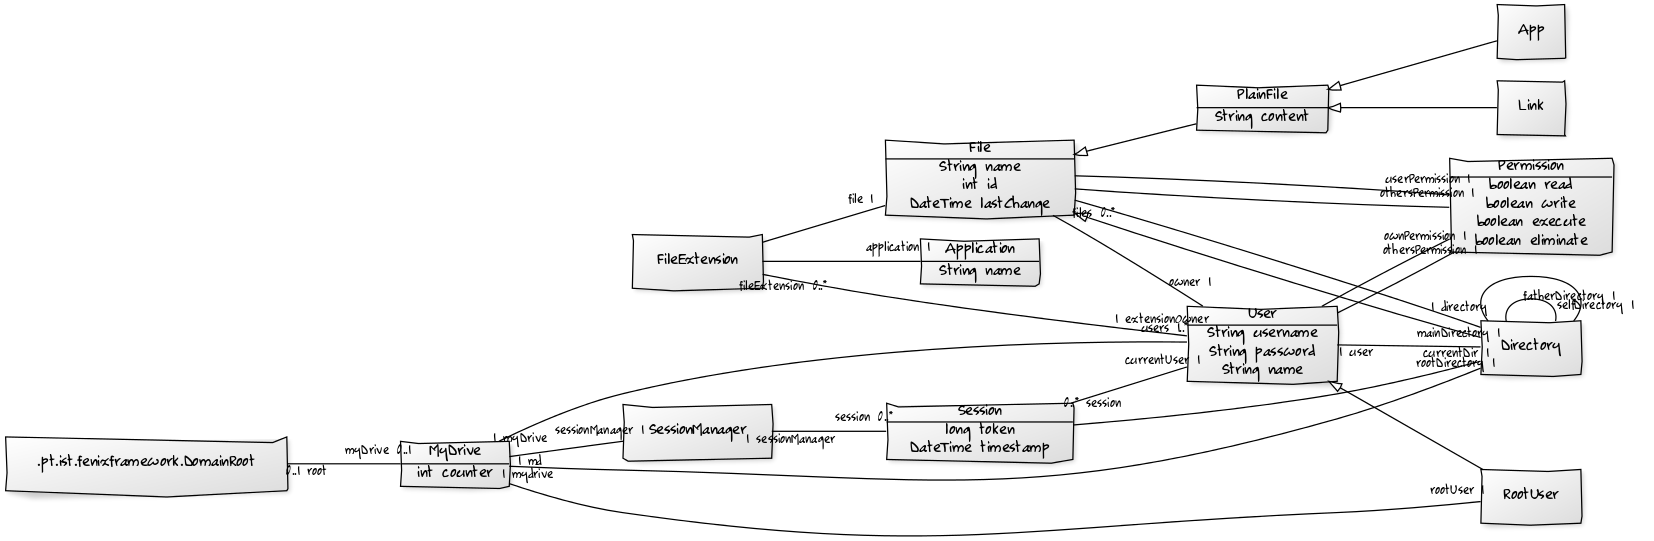
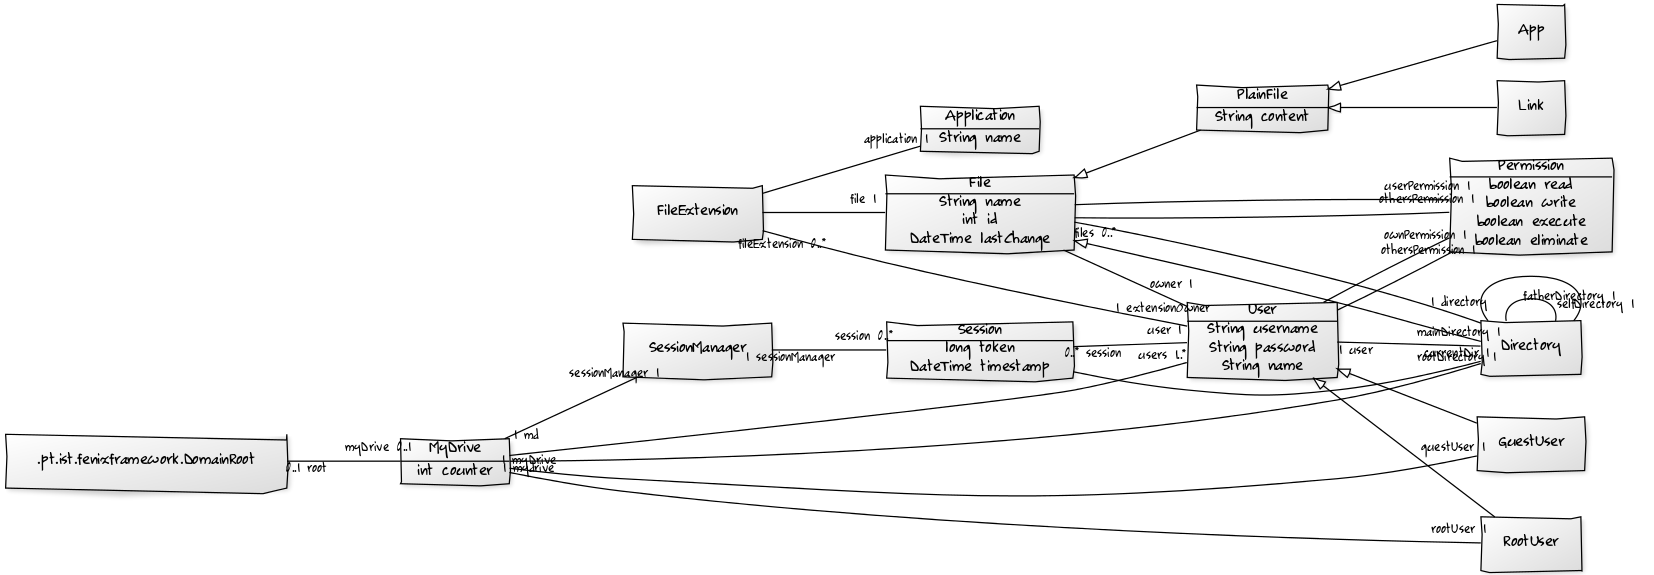
solved bug in order of constructor of Session, remove sessions must come last. Added invalid Operation Exception to the setter of rootUser

diff --git a/src/main/java/pt/tecnico/mydrive/domain/MyDrive.java b/src/main/java/pt/tecnico/mydrive/domain/MyDrive.java
@@ -75,8 +75,13 @@ public class MyDrive extends MyDrive_Base {
     }
 
     @Override
-    public void setRootUser(RootUser r){
-        //FIXME: perguntar porquê
+    public void setRootUser(RootUser r) {
+        throw new InvalidOperationException("set rootUser");
+    }
+    
+    @Override
+    public void setGuestUser(GuestUser guestUser) {
+    	throw new InvalidOperationException("set guestUser");
     }
     
     public File fileFactory(Element element, User owner, Directory father, String code){

diff --git a/src/main/java/pt/tecnico/mydrive/domain/Session.java b/src/main/java/pt/tecnico/mydrive/domain/Session.java
@@ -11,12 +11,12 @@ public class Session extends Session_Base {
 	public Session(String username, String password, SessionManager sm) throws NoSuchUserException {
 		super.setSessionManager(sm);
 		//sm.addSession(this);
-		sm.removeExpiredSessions();
 		User user = sm.validateUser(username, password);
 		setPrivateCurrentUser(user);
 		setCurrentDir(user.getMainDirectory());
 		setPrivateToken();
 		setPrivateTimestamp();
+		sm.removeExpiredSessions();
 	}
 
 	@Override
